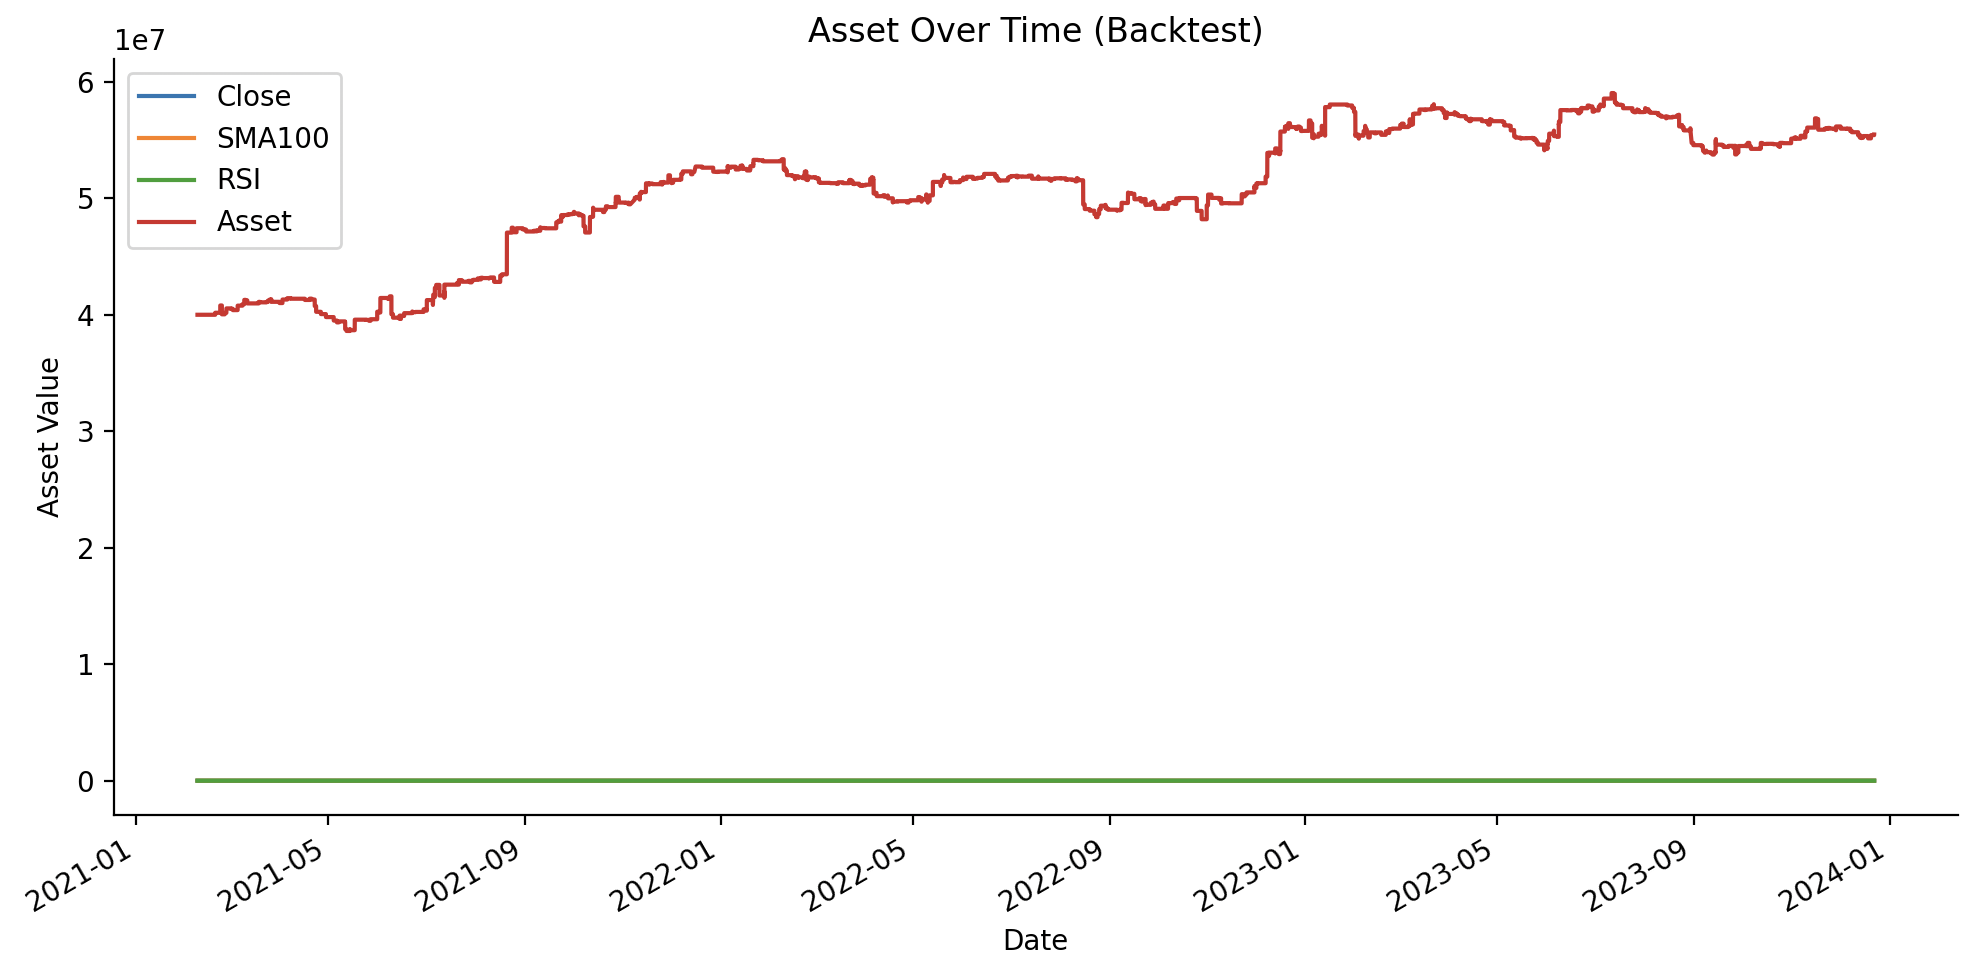
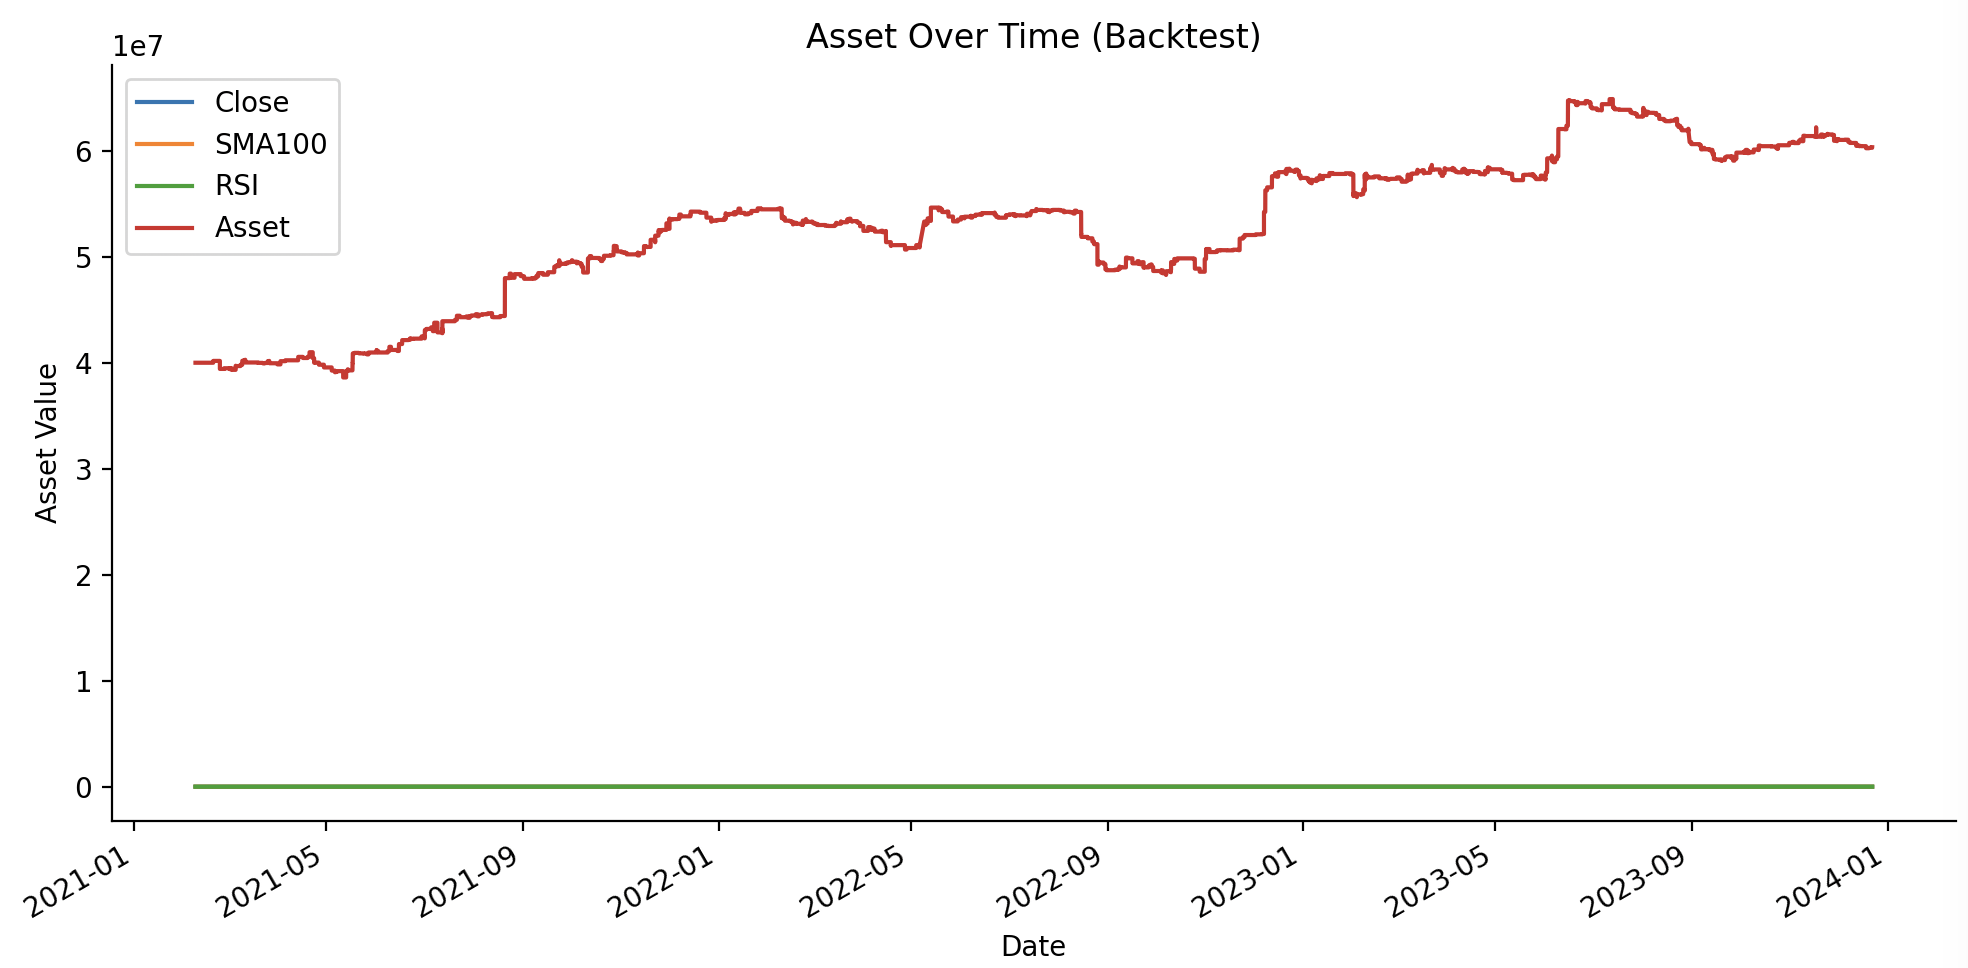
Update code and graph

diff --git a/src/backtest.py b/src/backtest.py
@@ -58,16 +58,11 @@ if __name__ == "__main__":
             print("📈 Sử dụng best_params từ optimize:")
             print(best_params)
         else:
-            print("⚠ Không tìm thấy best_params.json! Sử dụng best_params mặc định.")
+            print("Không tìm thấy best_params.json! Sử dụng best_params mặc định.")
             best_params = default_params
+        print("Chạy backtest trên **out-sample** data...")
+        run_backtest(out_sample_df, best_params)
     else:
-        print("▶ Sử dụng best_params mặc định.")
-        best_params = default_params
-    # best_params = {
-    #     "sma_window": 200,
-    #     "rsi_lower": 29.140662837219445,
-    #     "rsi_upper": 65.00361398539523
-    # }
-
-    # Chạy trên out-sample
-    run_backtest(out_sample_df, best_params)
+        print(" Sử dụng best_params mặc định.")
+        print(" Chạy backtest trên **in-sample** data...")
+        run_backtest(in_sample_df, default_params)
